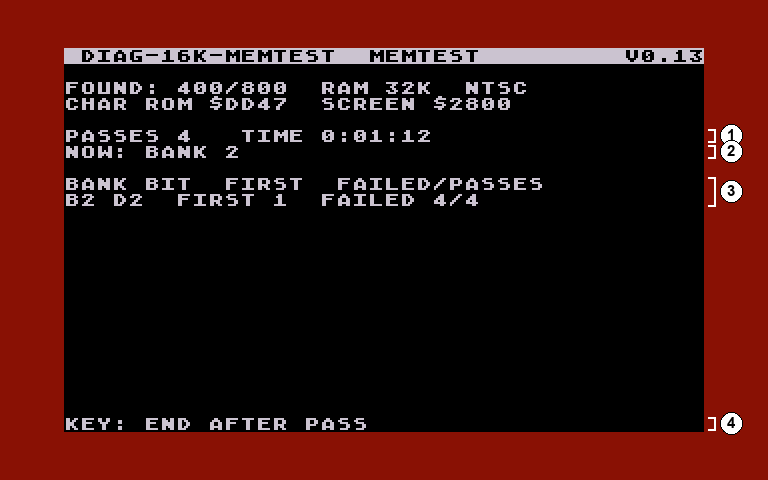
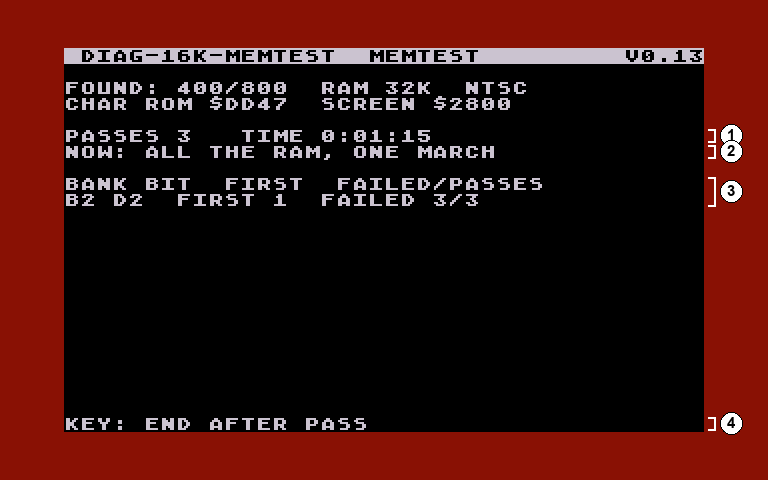
docs: up to date with 0.13
- USER-GUIDE: the memory test's pass, step by step as its NOW: line shows
  it (low RAM, the one march, the refresh check with the screen going off,
  the 130XE banks; the 8K one's banks and address test, no refresh
  check); the refresh check in "Is this a substitute"; VSCROL a scan line
  at a time.
- Pictures: memtest-01-running and -02-summary (NOW: ALL THE RAM, ONE
  MARCH; docshots' memtest run now shoots at PASSES 3, the passes being
  longer), ports-02-paddles (no SELECT=FAST) and ports-03-end.
- DEVELOPMENT: build_bounce's XSWEEP and refresh check; sim.py --leak;
  lessons: a cartridge doesn't stop a cassette or disk boot (the old note
  said a cassette won't boot), a march can't see a refresh fault, fast pot
  scan can't read paddles.
- design/Atari-diag-cassette-scope.md at 0.13: formats (boot disk, disk
  set; no .xex), the cartridge-in boot, skips, the menu without ALL OF
  THEM, test 1's BASIC, the memory tests, BASCRC, the files, the BASIC
  table (only A, B, C named), open items, shelved (.xex, fast scan),
  status.
- design/Atari-diag-boot-disk-scope.md, -disk-scope.md: the executables
  gone in 0.12.

Changed region(s): [[0.1875, 0.2812, 0.4375, 0.3438], [0.4688, 0.2812, 0.6562, 0.3438], [0.5625, 0.4062, 0.625, 0.4375]]

diff --git a/tools/docshots.py b/tools/docshots.py
@@ -81,8 +81,8 @@ RUNS = {
                                '--until', '420'], [
         ('^START=RUN', 0.5, '32k-02-menu')]),   # (its results page: as the 16k tape's)
     'memtest': ('diag-16k-memtest', ['--ram', '0x8000', '--stuck', '6FFC-6FFF:3:1',
-                                 '--key', '150', '--until', '220'], [
-        ('PASSES 4', 3, 'memtest-01-running'),
+                                 '--key', '100', '--until', '220'], [
+        ('PASSES 3', 3, 'memtest-01-running'),
         ('FIX SOLID', 1, 'memtest-02-summary')]),
     # the screen sweep is timed, not text-triggered: at 10 s on 8K it is on
     # row 13 (the save-page churn and the sweep alternate every pass)

diff --git a/docs/design/Atari-diag-cassette-scope.md b/docs/design/Atari-diag-cassette-scope.md
@@ -5,13 +5,14 @@ By **Michael Grimm**, written with Claude (Anthropic's AI). MIT license
 
 A diagnostic suite for every Atari 8-bit computer: the 400, 800, 1200XL,
 600XL, 800XL, 65XE, 800XE, 130XE and XE Game System. It started as
-cassettes only (hence this file's name) and now runs from a cartridge,
-disk files and cassettes, all built from one source. The goal: as much
+cassettes only (hence this file's name) and now runs from a cartridge, a
+boot disk, a set of one-test disks and cassettes, all built from one
+source. The goal: as much
 diagnostic information as possible, first through border colours and
 beeps that work with no picture at all, then as plain text once the video
 hardware has proven itself.
 
-This document is the design as built at version 0.9: what is tested, how
+This document is the design as built at version 0.13: what is tested, how
 results are reported, and why. How the code is put together is in
 [docs/DEVELOPMENT.md](../DEVELOPMENT.md); how to use it, in the
 [user guide](../USER-GUIDE.md).
@@ -50,16 +51,18 @@ Memory decoding:
 
 | Format | Needs | Strengths |
 |---|---|---|
-| Cartridge (`diag-cart.car`, AtariMax 128K) | 8K of RAM, a flash cartridge or a MiSTer | The best: no loading, every test on one menu, runs from ROM, tests the RAM under itself |
-| Disk files (`.xex`) | 32K (16K for the memory test and BASCRC), DOS or a loader | Fast to load, no cost; the way in when the cartridge port is bad |
+| Boot disk (`diag-disk.atr`) | 8K of RAM, a disk drive or an SIO adapter; no DOS | The likely starting point: the cartridge's menu, each test loaded as it is picked; the long test and the "hello" with 16K |
+| Cartridge (`diag-cart.car`, AtariMax 128K) | 8K of RAM, a flash cartridge | No loading, every test on one menu, runs from ROM, tests the RAM under itself: for RAM too sick to load a program into |
+| Disk set (`disk-set/`) | 8K, a disk drive or an SIO adapter | The 8k tapes as disks, one test to a disk, no menu: for when the boot disk can't get far |
 | Cassettes (`.cas`) | 8K and up, by set | The least of the machine: no drive, no DOS; for an 8K 400 or a machine too sick to boot a disk |
 
 Sets by RAM, not by model: the 8k set needs 8K, the 16k set,
 `diag-controls` and `diag-16k-memtest` need 16K, `diag-32k-xl-xe` 32K.
 Every tape works on any machine with at least that much RAM. The tapes
 that need more than 8K check the OS's RAMTOP ($6A) first and halt below
-it: red border, the low tone 0.6 s on and 0.6 s off, for good. The disk
-files check before they load anything.
+it: red border, the low tone 0.6 s on and 0.6 s off, for good. The boot
+disk loads only what the RAM can run (it picks its RAM test by the RAM
+the OS found; the long test and the "hello" need 16K).
 
 ## 3. Key constraints
 
@@ -68,8 +71,10 @@ files check before they load anything.
   The suite diagnoses partly-bad RAM, not dead RAM (the cartridge needs
   the least: 8K, and runs its code from ROM).
 - **Boot:** hold START at power-on, wait for the beep, start the tape,
-  press a key. No cartridge in: on a 400/800 a cassette won't boot with
-  one (a disk does). The programs switch an XL/XE's BASIC off themselves.
+  press a key. A BASIC cartridge can stay in: the OS boots a tape (START
+  held) or a disk before it would start the cartridge, and the program
+  never hands it back, so test 1 reads it. Any other cartridge out. The
+  programs switch an XL/XE's BASIC off themselves.
 - **A BOOT ERROR during load is itself diagnostic:** the OS checks each
   record, so the error points at low RAM, the cassette buffer or the SIO
   path.
@@ -129,8 +134,8 @@ files check before they load anything.
 - **R only where there is no menu:** the RAM tapes' summaries, the last
   screen of every tape without a menu (all its tests again: no reloading
   after a slip), the memory test's summary. A menu picks a test again.
-- **Skips:** S skips the RAM test (cartridge, 32k+ tape and disk file),
-  X the console key test.
+- **Skips:** S skips the RAM test (cartridge, boot disk, 32k+ tape), X
+  the console key test.
 
 ### Screen layout (40-column text)
 - The title bar names the program (`DIAG-16K-02-SYSTEM  2 KEYBOARD`) and
@@ -139,8 +144,10 @@ files check before they load anything.
 - Each test's screen, then its result lines at rows 21-23 with the keys.
 - The end of a tape without a menu: a line per test and what to load
   next (`DONE. R=RETEST. NEXT: DIAG-8K-04-PORTS`).
-- The menu (16k, 32k+, cartridge): 0 RAM, 1-7 the tests, ALL OF THEM, 8
-  the results and final code, 9 the long memory test (cartridge).
+- The menu (16k, 32k+, cartridge, boot disk): 0 RAM, 1-7 the tests, 8 the
+  results and final code, 9 the long memory test (cartridge and boot
+  disk). After each test the next one is highlighted, so START, START...
+  walks them all in order.
 
 ## 5. The tests
 
@@ -149,29 +156,45 @@ Numbered the same in every format; the items are what `FAIL` lists.
 | # | Test | What it does | Items |
 |---|---|---|---|
 | 0 | RAM | Low RAM ($0000-$07FF, non-destructive, no stack); then each 16K bank: March C- plus address-in-address (a decoder or address-line fault shows as a mirror); the program's own RAM page by page; the RAM under the XL/XE OS (bank 4) and a 130XE's banks 5-8; on the cartridge the 8K under it | the bank |
-| 1 | ROMs | CRC32 of each OS chip (400/800: three, each named on its own), the XL/XE built-in BASIC, the character set read twice, and the program itself (self-check) against section 10 | 1 OS reads differently twice; 2 built-in BASIC matches no revision; 3 unknown OS; 4 character set differs; 5 OS chips from different revisions; 6 self-check failed |
+| 1 | ROMs | CRC32 of each OS chip (400/800: three, each named on its own), BASIC (a cartridge if one is in, else an XL/XE's built-in), the character set read twice, and the program itself (self-check) against section 10 | 1 OS reads differently twice; 2 BASIC matches no revision; 3 unknown OS; 4 character set differs; 5 OS chips from different revisions; 6 self-check failed |
 | 2 | Keyboard | stuck key at the start; then a key map that lights each key | 1 stuck; 2 keys never pressed |
 | 3 | Console keys | START, SELECT, OPTION; the console speaker by ear | 1-3 the key; 4 the speaker |
 | 4 | Joysticks | live, 4 ports on a 400/800, 2 on an XL/XE; stuck lines at the start | the port |
 | 5 | Paddles | open-input check (every unplugged input reads 228), then live values with min, max and jitter (no fast scan: it can't read paddles) | the paddle |
-| 6 | POKEY | timer IRQ and RANDOM (automatic); each voice's scale and noise by ear; the sampled "hello" (cartridge, disk file, `diag-16k-03-hello`) | 1 timer; 2 random; 3-6 voices; 7 "hello" |
+| 6 | POKEY | timer IRQ and RANDOM (automatic); each voice's scale and noise by ear; the sampled "hello" (cartridge; boot disk and the disk set's sound disk with 16K; `diag-16k-03-hello`) | 1 timer; 2 random; 3-6 voices; 7 "hello" |
 | 7 | GTIA/ANTIC | luminance and colour ramps, the word ATARI in players and missiles scrolling right to left and snaking, PAL/NTSC; page 2: ANTIC 6, 7, the bitmaps 8, A, B, D, F, GTIA 9, 10, 11, fine scrolling | 1 page 1 looks wrong; 2 page 2 looks wrong |
 
 The memory test (burn-in) loops the RAM tests until a key: a clock, the
 passes done, and a log of every bad bit (first pass, passes failed);
-solid versus intermittent; yellow once anything intermittent is seen. The
-16K+ one keeps two copies of itself that test each other's RAM; the 8K one
-page-tests its own and stops on an XL/XE, whose extra RAM it can't reach.
+solid versus intermittent; yellow once anything intermittent is seen.
+- **16K and up** (`diag-16k-memtest`, the cartridge's and the boot disk's
+  line 9): low RAM, then one March C- over all the RAM it reaches, the RAM
+  under an XL/XE's OS too (a march over one sweep finds address faults as
+  well, so there is no separate address test), then the **refresh
+  check**: the RAM filled with $00, the screen off and the CPU idle in a
+  tiny loop for 5 seconds, so only ANTIC's refresh keeps it, then read
+  back; the same with $FF. Every read or write refreshes the row it
+  touches, so a march can't see a refresh fault (a replacement chip that
+  needs 256 rows refreshed in a machine whose ANTIC refreshes 128, say).
+  Then a 130XE's banks, with an address test and the same wait. It keeps
+  two copies of itself that test each other's RAM.
+- **8K** (`diag-8k-memtest`): low RAM, the march bank by bank, an address
+  test over all of it, its own RAM page by page. No room for the refresh
+  check. It stops on an XL/XE, whose extra RAM it can't reach.
 
-BASCRC checks a BASIC cartridge (CRC32, revisions A, B, C), which the
-programs don't read on a 400/800.
+BASCRC checks BASIC on its own (CRC32, revisions A, B, C), from its own
+disk or tape: with the diag cartridge, which can't read a BASIC
+cartridge, or as a second opinion. Test 1 does the same check when a tape
+or disk runs with BASIC in.
 
 ## 6. The files
 
 | Set | Files |
 |---|---|
+| Boot disk | `diag-disk.atr`: everything on the cartridge's menu, each test loaded as picked; the long memory test on line 9 (16K) |
 | Cartridge | `diag-cart.car`: everything; the long memory test on menu line 9 (16K) |
-| Disk | `diag-32k-xl-xe.xex`, `diag-16k-memtest.xex`, `diag-bascrc.xex` (and `bascrc.lst`) |
+| Other disks | `diag-16k-memtest.atr` (boots into the long memory test), `diag-bascrc.atr` (boots into BASCRC; also a DOS 2 disk with `BASCRC.XEX` and `BASCRC.LST`) |
+| Disk set | the 8k tapes as disks: `diag-8k-01-ram.atr` to `diag-8k-06-video.atr`, `diag-8k-memtest.atr`; on 16K the RAM disk loads its part 2 itself, the sound disk adds the "hello", the memtest disk runs `diag-16k-memtest` |
 | 8k set | `diag-8k-01-ram` (stage 2 on 16K and up: its own RAM, the XL/XE extras), `-02-rom`, `-03-input` (2, 3), `-04-ports` (4, 5), `-05-sound` (6), `-06-video` (7), `diag-8k-memtest` |
 | 16k set | `diag-16k-01-ram` (one load), `diag-16k-02-system` (1-7 with the menu), `diag-16k-03-hello`, `diag-16k-memtest` |
 | 32k+ | `diag-32k-xl-xe`: the RAM test, then 1-7 with the menu, one load |
@@ -183,7 +206,7 @@ before anything runs from it, the keyboard before a question.
 ## 7. Build and development environment
 
 - **Assembler:** MADS. **Tools:** Python (`tools/`): the build, the CAS,
-  XEX and CAR writers, a cycle-timed simulator on py65, the documentation
+  ATR and CAR writers, a cycle-timed simulator on py65, the documentation
   pictures.
 - **Deploy:** every build copies the changed release files to the share
   the MiSTer reads.
@@ -194,7 +217,7 @@ before anything runs from it, the keyboard before a question.
   a fail code (no emulator simulates a bad chip); `--fast` skips the slow
   patterns.
 - **File names** start with `diag-`, carry the set and number, and the
-  version (`-v0.9`), so they sort together.
+  version (`-v0.13`), so they sort together.
 
 ## 8. Register quick reference
 
@@ -209,7 +232,7 @@ before anything runs from it, the keyboard before a question.
 | KBCODE | $D209 (read) | Keyboard code |
 | RANDOM | $D20A (read) | Random number |
 | POTGO | $D20B (write) | Start pot scan |
-| SKCTL / SKSTAT | $D20F (write/read) | Serial/keyboard control (3 = normal); bit 2 = fast pot scan |
+| SKCTL / SKSTAT | $D20F (write/read) | Serial/keyboard control (3 = normal); bit 2 = fast pot scan (not used: it can't read paddles) |
 | PORTA | $D300 | Joysticks 1/2 |
 | PORTB | $D301 | Joysticks 3/4 (400/800); banking (XL/XE) |
 | PACTL | $D302 | Cassette motor control |
@@ -304,13 +327,20 @@ BASIC, 8K at $A000:
 | B | F0202FB3 | 600XL, 800XL (MAME CO60302A) |
 | C | 7D684184 | 65XE, 130XE, 800XE (MAME CO24947A) |
 | Arabic | C899F4D6 | MAME only (a65xea) |
-| (rev A misloaded) | CCF05648 | Rev A loaded from a `.car` file as a raw 8K ROM, as the MiSTer core does when a `.car` is given as the BASIC ROM. The 16-byte CART header wraps, so BASIC sits 16 bytes on (verified on Mike's file, 2026-11-07). Shown as "A, .CAR MISLOAD". |
+| (rev A misloaded) | CCF05648 | Rev A loaded from a `.car` file as a raw 8K ROM, as the MiSTer core does when a `.car` is given as the BASIC ROM. The 16-byte CART header wraps, so BASIC sits 16 bytes on (verified on Mike's file, 2026-11-07). |
 
-An XL/XE's built-in BASIC that matches no revision is a fault (item 2):
-the built-in ROM is always one of them. The 1200XL has no BASIC (`NONE`).
-On a 400/800 BASIC was always a cartridge, and the programs don't read the
-cartridge slot (`A CARTRIDGE: USE BASCRC`): BASCRC checks it against the
-same A, B and C values.
+The ROM test names only A, B and C; anything else (the Arabic one, a
+misload) is `UNKNOWN`, item 2: a failing BASIC, dirty contacts, or a
+cartridge that isn't BASIC. The 1200XL has no BASIC (`NONE`).
+On a 400/800 BASIC is a cartridge. The tapes and disks read it at $A000
+(400/800: RAMTOP at most $A0 and $BFFC zero; XL/XE: TRIG3 says a
+cartridge is in, else the built-in BASIC with PORTB bit 1): the OS boots
+them before it would start the cartridge (OS rev B: cassette boot at
+$F1E1 with no cartridge check, disk boot when $BFFD bit 0 is set, and
+the boot enters the program at load+6 before the cartridge's start).
+The diag cartridge can't read another cartridge: it takes the slot
+itself, so its ROM test shows `BASIC NONE` on a 400/800. BASCRC checks
+BASIC on its own against the same A, B and C values.
 
 ## 11. Open items
 
@@ -318,10 +348,12 @@ same A, B and C values.
   130XE, from the schematics, so a RAM fault names its chip.
 - [ ] The 130XE's ANTIC-access check (PORTB bit 5): a pattern in an
   extended bank shown on screen.
-- [ ] The cassettes played into a real machine (so far the MiSTer, and the
-  disk files on real machines).
+- [ ] The boot disk, the cartridge and the cassettes on a real machine
+  (so far the MiSTer; the executables, up to 0.11, ran on real machines).
 - [ ] The BASCRC tape (`ENTER "C:"`) confirmed on a MiSTer or a real
-  recorder; the disk file is confirmed.
+  recorder; BASCRC runs on an 800 (0.13).
+- [ ] The refresh check seen to catch a real refresh fault (it catches
+  the simulator's, `sim.py --leak`).
 - [ ] The paddle test on a MiSTer (needs a paddle adapter that works with
   it); it is confirmed on real machines.
 - [ ] ROM table gaps: OS rev B PAL (if it exists), the XEGS's 32K image
@@ -339,16 +371,19 @@ same A, B and C values.
   and a display could come from ROM with DMA off or by racing the beam.
   The AtariMax cartridge took the other road: it needs 8K of RAM and the
   OS, runs every test from ROM, and is the best way in all the same.
-- **A bootable disk image (`.atr`):** no DOS is ours to hand out; the
-  `.xex` files load from any DOS or loader instead.
-- **The 16k tapes as disk files:** above DOS they would need 24K, a rare
-  size; the 32K file covers the same tests.
+- **Executables (`.xex`), up to 0.11:** they needed DOS and 32K. The boot
+  disk (0.10) boots with no DOS and needs 8K, so they went in 0.12
+  ([Atari-diag-disk-scope.md](Atari-diag-disk-scope.md) is their design).
+- **Fast pot scan in the paddle test, up to 0.12:** it can't read
+  paddles. The counts come out 114 times too high, and it turns off the
+  transistors that empty the capacitors (Altirra Hardware Reference
+  Manual, 5.9).
 
-## 13. Status at 0.9 (2026-11-15)
+## 13. Status at 0.13 (2026-11-19)
 
 All formats run on the MiSTer Atari800 core as a 400/800 and as an XL/XE
-(64K, and a 128K 130XE). The disk files run on a real 800 and 800XL over
-an SIO adapter, where the joystick and paddle ports were tested. Where the
-author has tried them, the results have been right: the RAM banks and
-their beeps, the ROM names, the self-checks, BASCRC from disk with a BASIC
-cartridge in.
+(64K, and a 128K 130XE). The executables (up to 0.11) ran on a real 800
+and 800XL over an SIO adapter, where the joystick and paddle ports were
+tested. Where the author has tried them, the results have been right: the
+RAM banks and their beeps, the ROM names, the self-checks, BASIC by test 1
+and by BASCRC on an 800.

diff --git a/docs/DEVELOPMENT.md b/docs/DEVELOPMENT.md
@@ -107,7 +107,7 @@ border, the low tone on and off).
 | `build_one16` | `diag-16k-01-ram` | stage 1 (`ONE16`) with stage 2 inserted into the same image at the address it was built for, one load |
 | `build_one32` | `diag-32k-xl-xe` | stage 1 (`ONE32`), stage 2 and the system tests in one image; the addresses depend on the sizes, so a few rounds settle them |
 | `tape2` | `diag-8k-memtest` | `src/tape2/main.asm` with `OWNTEST` (page-tests its own RAM), `NOXL` |
-| `build_bounce` | `diag-16k-memtest` | the same source with `BOUNCE`: two copies that take turns, each testing the other's RAM; a relocation bitmap made by assembling at $0800 and $0C00, checked byte for byte against both |
+| `build_bounce` | `diag-16k-memtest` | the same source with `BOUNCE`: two copies that take turns, each testing the other's RAM; a relocation bitmap made by assembling at $0800 and $0C00, checked byte for byte against both. `BOUNCE` sets `XSWEEP`: one March C- over a range list of all the RAM the copy reaches, cut at the bank edges so each range's errors go to its own bank (`ramtest.asm`'s `rngbank`), the RAM under an XL/XE's OS in the same sweep (`xlram.asm`'s `osout`); no address test on main RAM. Then, in copy A's half, the refresh check (`retain`, `rwait`): the list filled with $00 and with $FF, each left 5 s with the screen and NMIs off and the CPU in a frame-counting loop, then read back; the 130XE banks' cross-bank values wait the same 5 s |
 
 `tools/mkcas.py` writes the `.cas`: FUJI and baud chunks, then the boot
 records ($55 $55 sync, control byte $FC/$FA/$FE, 128 bytes, checksum),
@@ -454,7 +454,9 @@ cycles a scan line and a floating bus. It models:
   (`--xe`, `--xejunk` for extended RAM full of random bytes as at
   power-on), the self-test ROM
 - RAM faults: stuck bits (`--stuck`), flaky bits (`--flaky`), mirrored
-  banks (`--mirror`)
+  banks (`--mirror`), a refresh fault (`--leak LO-HI:SECS`: a page there
+  reads $00 once SECS pass with no CPU access to it; keep the screen
+  block out, ANTIC's reads aren't modelled)
 - the VBI, the keyboard (`--key SECS`, `--kb CODE:SECS[:HOLD]`), console
   keys (`--con KEY:SECS[:HOLD]`), joystick 1 (`--joy UP|DOWN|LEFT|RIGHT|FIRE:SECS[:HOLD]`),
   paddles, POKEY's interrupt latches
@@ -538,7 +540,19 @@ Notes from the sessions, for whoever works on this next.
   program can see it (a 48K 800 with BASIC shows 40K). An AtariMax can
   switch itself off ($D510) and back on (a bank select), which is how the
   diag cartridge counts and tests that RAM.
-- With a cartridge in, a 400/800 won't boot a cassette, but a disk boots.
+- With a cartridge in, a 400/800 still boots a cassette (START held) or a
+  disk (when the cartridge's $BFFD bit 0 asks for it, as BASIC's does):
+  the OS's boot enters the program at load+6 before it would start the
+  cartridge (OS rev B $F1E1-$F20F, $F301-$F37B, read from the ROM
+  itself). An earlier note here said a cassette won't boot with one.
+- Every read or write refreshes the DRAM row it touches, so a march (which
+  touches every row all the time) can't see a refresh fault. The long
+  test's refresh check leaves the RAM alone with the screen off; ANTIC's
+  refresh counter is 7 or 8 bits depending on the chip (Altirra Hardware
+  Reference Manual), and some later RAM chips need the 8.
+- POKEY's fast pot scan can't read paddles: the counts are 114 times
+  higher, and it turns off the transistors that empty the capacitors
+  (Altirra Hardware Reference Manual, 5.9).
 - The OS's cassette boot reads one record past the count it was given:
   every file needs its EOF record.
 - The sampled sound plays with the screen off: ANTIC takes the processor

diff --git a/docs/USER-GUIDE.md b/docs/USER-GUIDE.md
@@ -739,8 +739,8 @@ Without a working screen the test is skipped.
 3. `GTIA 9, 10, 11`: three bands of the same line of 16 values: 16 shades
    of blue, then 9 colours, then 16 hues.
 4. A line that slides from side to side (ANTIC's fine horizontal scroll)
-   and one that moves up and down (fine vertical scroll). The picture
-   catches them at one moment.
+   and one that moves up and down a scan line at a time (fine vertical
+   scroll). The picture catches them at one moment.
 5. The question, which stays still.
 
 Answer whether it all looks right (item 2).
@@ -846,10 +846,35 @@ What each one covers:
 1. An XL/XE (its main RAM only: this tape doesn't look further).
 2. Load `diag-16k-memtest` instead.
 
+What a pass does, as the `NOW:` line shows it. **`diag-16k-memtest`**
+(also line 9 of the cartridge and the boot disk):
+1. `LOW RAM`: $0000-$07FF, every byte saved, tested and put back.
+2. `ALL THE RAM, ONE MARCH`: March C- over all the RAM at once, the RAM
+   under an XL/XE's OS included: first with $00/$FF, then with $55/$AA.
+   It finds stuck bits, bits that change their neighbours, and bad
+   address lines.
+3. `REFRESH CHECK: THE SCREEN GOES OFF`: once a pass, the RAM is filled
+   with $00, then the screen goes off (all of it shows the border colour)
+   and nothing touches the RAM for 5 seconds, so only the machine's
+   refresh keeps it. Then it is read back, and the same again with $FF:
+   about 12 seconds in all. Every read or write also refreshes the RAM,
+   so the march can't see a refresh fault. One example is a replacement
+   RAM chip that needs more of the refresh than an older ANTIC gives. A
+   key still ends the test after the pass.
+4. `130XE BANKS 5-8`: each extra bank, then the banks against each other
+   (with the same 5-second wait, so the screen goes off once more).
+
+A pass takes about half a minute on a 48K 800.
+
+**`diag-8k-memtest`**: `LOW RAM`, then the march on each 16K bank in turn
+(`BANK 1`, 2 ...), then `ADDRESSES` over all of them: every byte given its
+own address and checked, for bad address lines. There's no room in 8K for
+the refresh check.
+
 ![Memory test running](img/memtest-01-running.png)
 
 1. The passes done (`PASSES 0` during the first) and how long it has run.
-2. What it's testing now.
+2. What it's testing now (see the list above).
 3. The log: bank (B1-B8; B9 is the memory test's own RAM, when it tests it
    page by page), bit, the first pass it failed in, and failed/passes.
 4. Press a key (or START, SELECT, OPTION or a joystick button) to end
@@ -1128,7 +1153,8 @@ to boot a disk may still load a tape.
 
 No. The RAM tapes test every byte with strong patterns, but only once. A
 fault that only shows when warm, or now and then, needs the memory test
-running for a while.
+running for a while. Only the memory test (16K and up) checks the
+refresh as well: see [Memory test](#memory-test-line-9).
 
 ### Does a pass prove the machine is good?
 

diff --git a/docs/design/Atari-diag-boot-disk-scope.md b/docs/design/Atari-diag-boot-disk-scope.md
@@ -10,8 +10,8 @@ set-up); not yet on a real machine. The plan: docs/superpowers/plans/2026-11-16-
 Where the build settled a point differently from the text below: the boot
 is sectors 1-4 at $0600-$07FF (its loader already in place at $0700); the
 menu piece is 3.75K (30 sectors); the disk error has no status number and
-a steady tone (the page-7 loader must fit 254 bytes). The disk files (`.xex`) have
-their own document, [Atari-diag-disk-scope.md](Atari-diag-disk-scope.md).
+a steady tone (the page-7 loader must fit 254 bytes). The disk files (`.xex`, up to
+0.11; gone in 0.12) have their own document, [Atari-diag-disk-scope.md](Atari-diag-disk-scope.md).
 This disk reverses two calls made there: it is a bootable `.atr`, and it
 runs on an 8K machine.
 
@@ -234,7 +234,7 @@ and the loader where the cartridge has `XBANK`.
 6. The results page lives in the ROM piece (it has the ROM names).
 7. The long test needs 16K and clears the other results, as on the
    cartridge.
-8. The `.xex` files stay as they are (since moved to `xex/`: `disks/` holds
-   only the boot disk).
+8. The `.xex` files stay as they are (since moved to `xex/`, then dropped
+   in 0.12: the boot disk does what they did).
 9. Title bar `DIAG-DISK`, file `disks/diag-disk-v0.10.atr`, version 0.10
    (the design said 0.9; it shipped as 0.10).

diff --git a/docs/design/Atari-diag-disk-scope.md b/docs/design/Atari-diag-disk-scope.md
@@ -3,6 +3,11 @@
 By **Michael Grimm**, written with Claude (Anthropic's AI). MIT license
 (see [LICENSE](../../LICENSE)).
 
+**Retired in 0.12:** the executables (`.xex`) are gone. The boot disk
+(0.10, [Atari-diag-boot-disk-scope.md](Atari-diag-boot-disk-scope.md))
+does what they did, with no DOS and on 8K. This file is kept as their
+design.
+
 Status at 0.9 (2026-11-15): built, and run from the MiSTer's XEX loader
 and on a real 800 and 800XL over an SIO adapter. First built in v0.2
 (2026-11-08) from the proposal below; where the build settled a point
